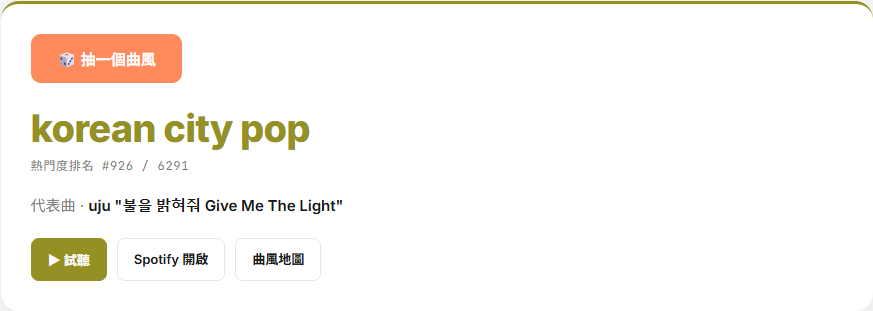
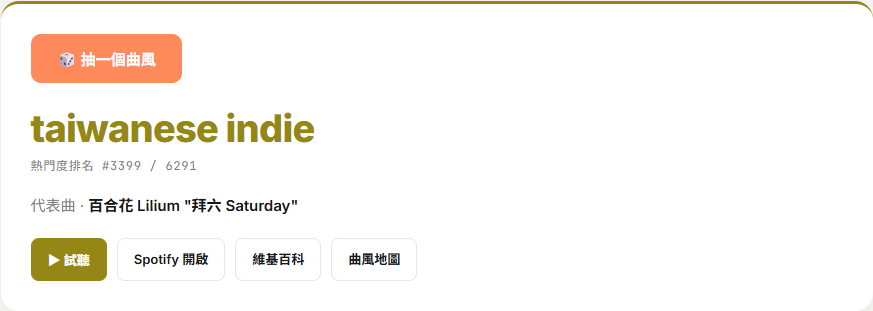
Add Wikipedia lookup button to genre roulette
index.php?search jumps straight to the article when the genre name is an
exact title match, and falls back to the results page otherwise, which is
what most of the 6291 genres need.

diff --git a/noise.html b/noise.html
@@ -212,6 +212,7 @@
       <div class="actions">
         <button class="act primary" id="playBtn">▶ 試聽</button>
         <a class="act" id="spotifyLink" target="_blank" rel="noopener">Spotify 開啟</a>
+        <a class="act" id="wikiLink" target="_blank" rel="noopener">維基百科</a>
         <a class="act" id="mapLink" target="_blank" rel="noopener">曲風地圖</a>
       </div>
     </div>
@@ -249,6 +250,9 @@
     $('genreMeta').textContent = `熱門度排名 #${genres.indexOf(g) + 1} / ${genres.length}`;
     $('example').textContent = g[EG];
     $('spotifyLink').href = `https://open.spotify.com/track/${g[TRACK]}`;
+    // index.php?search jumps straight to the article when the title matches exactly,
+    // and falls back to the results page otherwise, which most genres need.
+    $('wikiLink').href = `https://en.wikipedia.org/w/index.php?search=${encodeURIComponent(g[NAME])}`;
     $('mapLink').href = `https://everynoise.com/engenremap-${slug(g[NAME])}.html`;
     $('result').hidden = false;
     play(g);
